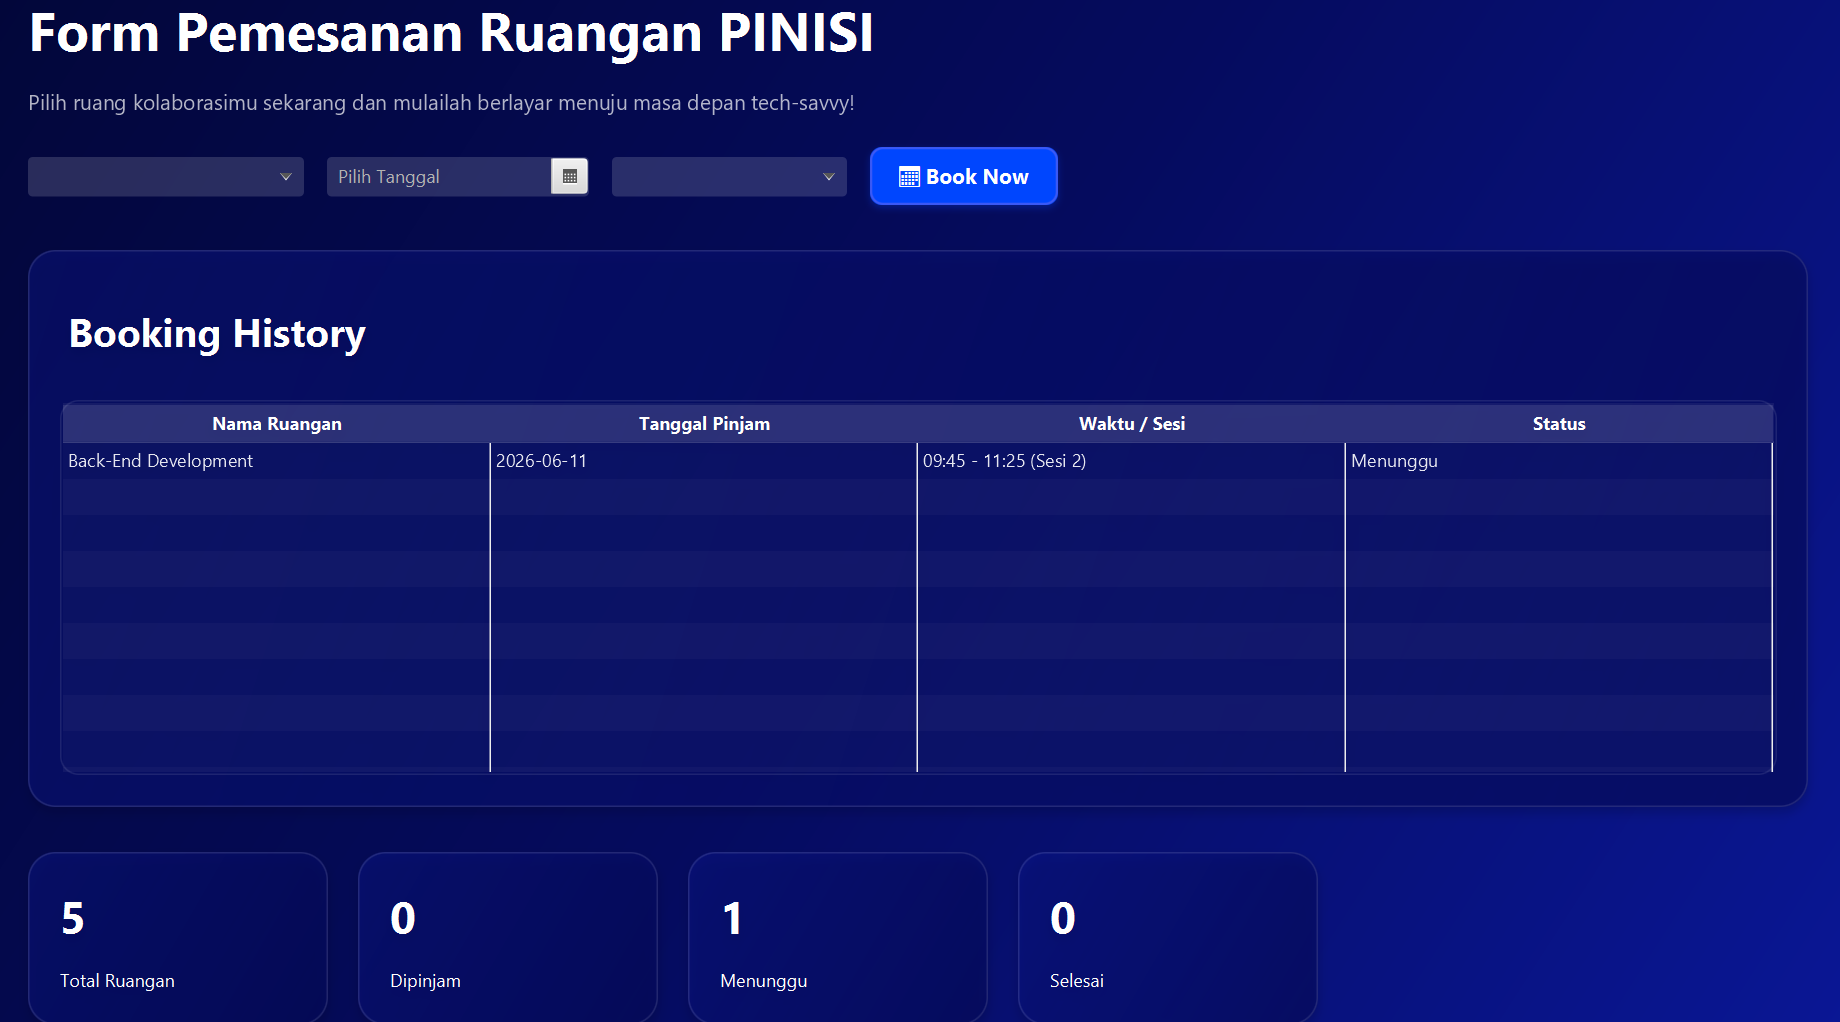
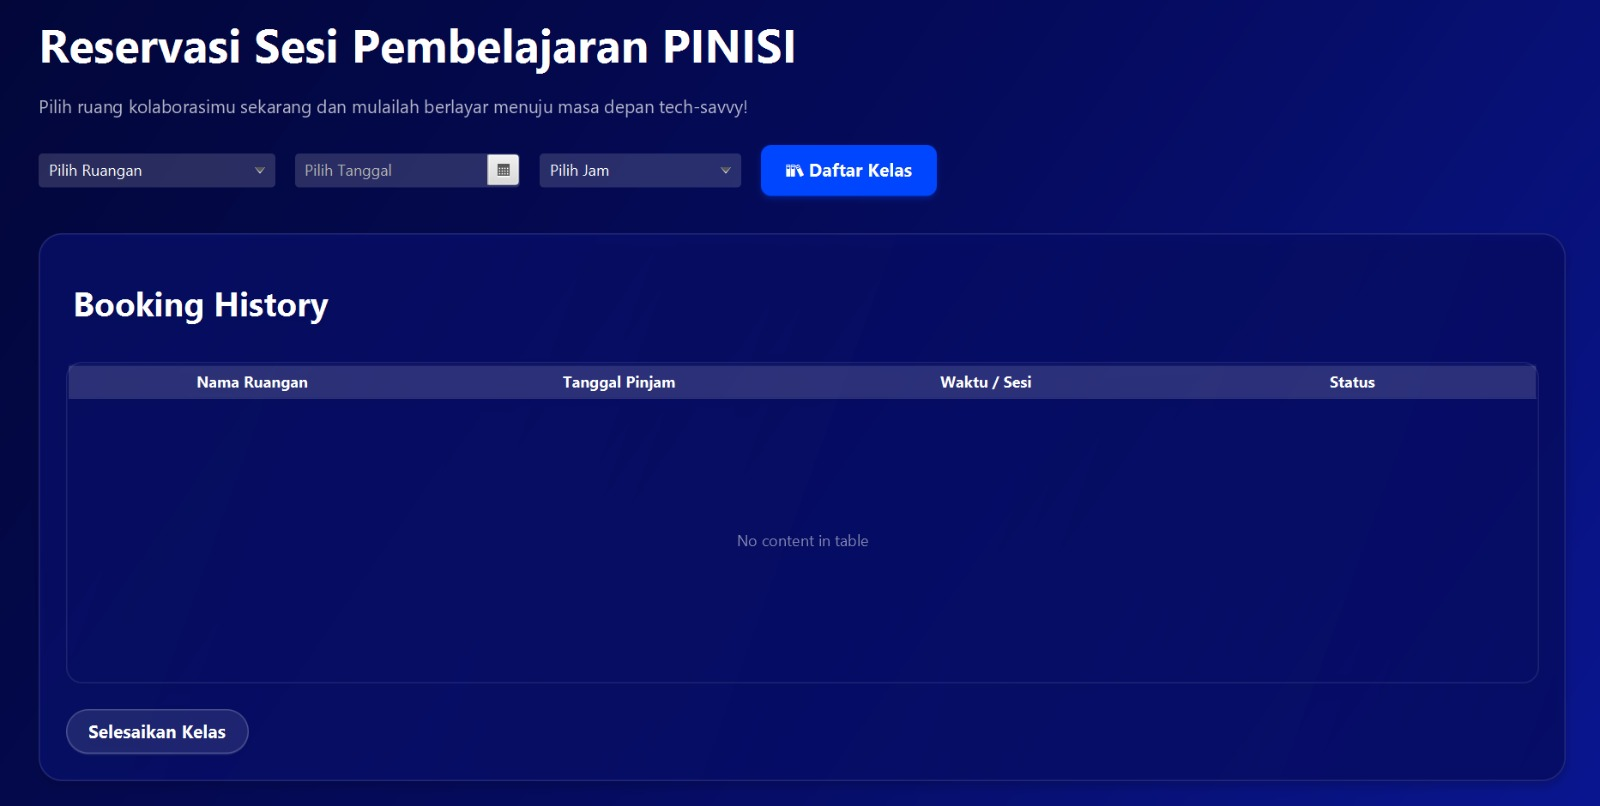
docs: memperbarui README dan menambahkan screenshot aplikasi

diff --git a/README.md b/README.md
@@ -21,25 +21,40 @@ Aplikasi ini terinspirasi dari Makassar Creative Hub sebagai ruang pengembangan 
 | 🗺 Roadmap Skill Development | Menyediakan jalur pembelajaran yang terstruktur.                    |
 
 ## 📸 Tampilan Aplikasi
-
+### Landing Page
 <p align="center">
   <img src="docs/landing-page.png" width="700">
 </p>
 
+### Login & Register
+<p align="center">
+  <img src="docs/login-page.png" width="700">
+</p>
+<p align="center">
+  <img src="docs/regist-page.png" width="700">
+</p>
+
+### Home Page
 <p align="center">
   <img src="docs/home-page.png" width="700">
 </p>
 
+### Event & Workshop
 <p align="center">
   <img src="docs/event-page.png" width="700">
 </p>
 
+### Community & Collaboration
 <p align="center">
   <img src="docs/community-page.png" width="700">
 </p>
+
+### Booking Fasilitas
 <p align="center">
   <img src="docs/booking-page.png" width="700">
 </p>
+
+### RoadMap
 <p align="center">
   <img src="docs/roadmap-page.png" width="700">
 </p>
@@ -137,5 +152,16 @@ public String getDeskripsiPeran() {
 | H071251005 | Mukhsin               |
 | H071251073 | Ayu Anggraini         |
 
-```
-```
+<div></div>
+  <a href="https://github.com/fatichmaze">
+    <img src="https://github.com/fatichmaze.png" width="100px;" />
+  </a>
+  &nbsp;&nbsp;&nbsp;
+  <a href="https://github.com/mukhsin27">
+    <img src="https://github.com/mukhsin27.png" width="100px;" />
+  </a>
+  &nbsp;&nbsp;&nbsp;
+  <a href="https://github.com/yutss55">
+    <img src="https://github.com/yutss55.png" width="100px;" />
+  </a>
+</p>
